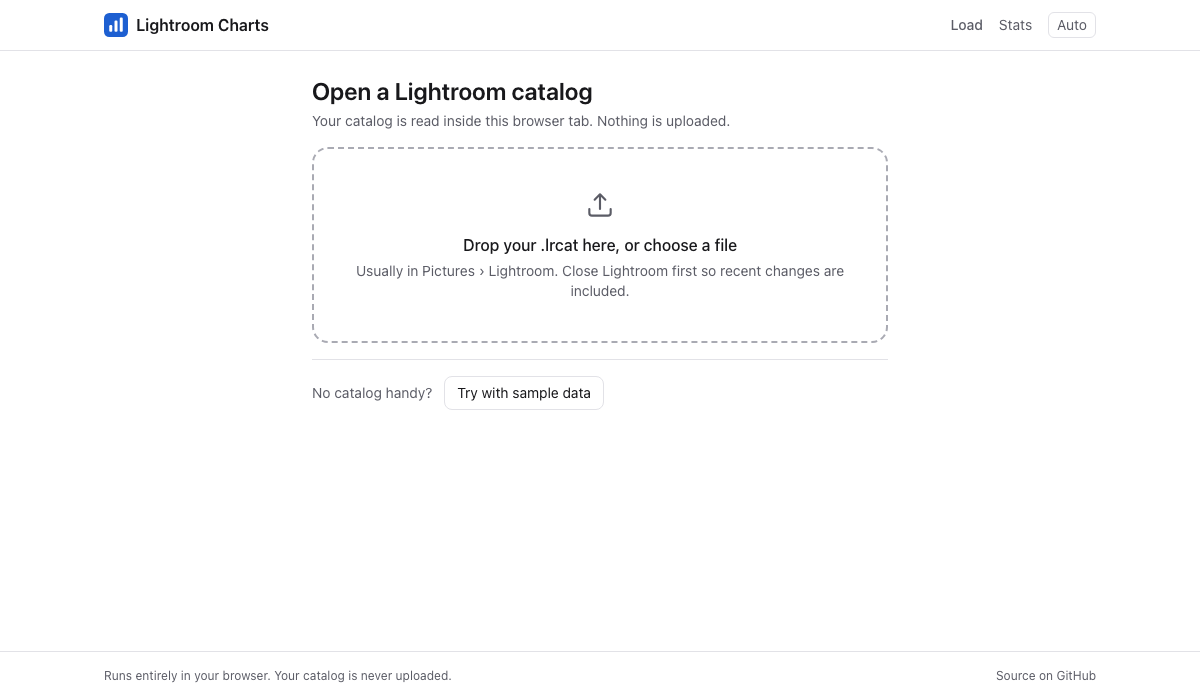
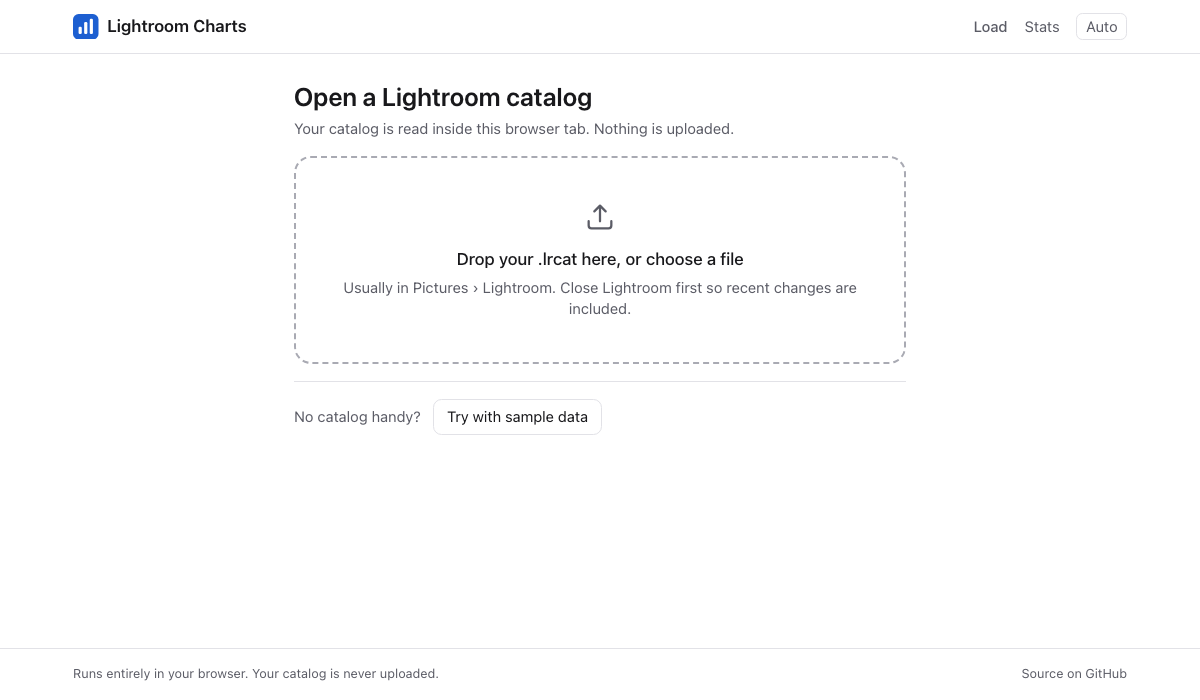
style: larger text across the app and in charts
- Root font size 17px (106.25%, so the browser's own font-size setting
  still applies). Everything sized in rem scales with it: body text
  14px -> 14.9px, notes 12px -> 12.75px.
- Chart text is drawn in px on a canvas, so the root size doesn't reach
  it: axis, value and tooltip text 12px -> 13px; the bins that show every
  label (ISO, aperture, weekday) 11px -> 12px so they still fit on phones.
- Checked at 375px (header still fits, no card title wraps, no label
  collisions) and 1280px. README screenshots regenerated.

diff --git a/src/charts/options.ts b/src/charts/options.ts
@@ -13,13 +13,14 @@ export function monthLabel(m: string): string {
 function base(c: ThemeColors) {
   return {
     animationDuration: 300,
-    textStyle: { color: c.muted, fontFamily: 'inherit' },
+    // Chart text is in px (the root font size doesn't reach the canvas).
+    textStyle: { color: c.muted, fontFamily: 'inherit', fontSize: 13 },
     tooltip: {
       trigger: 'axis',
       axisPointer: { type: 'shadow' },
       backgroundColor: c.surface,
       borderColor: c.line,
-      textStyle: { color: c.fg },
+      textStyle: { color: c.fg, fontSize: 13 },
     },
   };
 }
@@ -27,7 +28,7 @@ function base(c: ThemeColors) {
 const valueAxis = (c: ThemeColors) => ({
   type: 'value',
   minInterval: 1,
-  axisLabel: { color: c.muted },
+  axisLabel: { color: c.muted, fontSize: 13 },
   splitLine: { lineStyle: { color: c.line } },
 });
 
@@ -39,7 +40,7 @@ export function timelineOption(rows: MonthCount[], c: ThemeColors): EChartsCoreO
     xAxis: {
       type: 'category',
       data: rows.map((r) => monthLabel(r.month)),
-      axisLabel: { color: c.muted, hideOverlap: true },
+      axisLabel: { color: c.muted, hideOverlap: true, fontSize: 13 },
       axisLine: { lineStyle: { color: c.line } },
       axisTick: { show: false },
     },
@@ -76,7 +77,7 @@ export function rankingOption(
     yAxis: {
       type: 'category',
       data: top.map((r) => r.name),
-      axisLabel: { color: c.fg, width: labelWidth, overflow: 'truncate' },
+      axisLabel: { color: c.fg, width: labelWidth, overflow: 'truncate', fontSize: 13 },
       axisLine: { lineStyle: { color: c.line } },
       axisTick: { show: false },
     },
@@ -87,7 +88,7 @@ export function rankingOption(
         data: top.map((r) => r.count),
         itemStyle: { color: c.chart, borderRadius: [0, 4, 4, 0] },
         barMaxWidth: 18,
-        label: { show: true, position: 'right', color: c.muted },
+        label: { show: true, position: 'right', color: c.muted, fontSize: 13 },
       },
     ],
   };
@@ -108,8 +109,8 @@ export function columnOption(
       // Few bins: show every label (ECharts would skip alternate ones on phones).
       // Many bins (24 hours): let ECharts thin labels that would overlap.
       axisLabel: everyLabel
-        ? { color: c.muted, interval: 0, fontSize: 11 }
-        : { color: c.muted, hideOverlap: true, fontSize: 11 },
+        ? { color: c.muted, interval: 0, fontSize: 12 }
+        : { color: c.muted, hideOverlap: true, fontSize: 12 },
       axisLine: { lineStyle: { color: c.line } },
       axisTick: { show: false },
     },

diff --git a/src/styles.css b/src/styles.css
@@ -7,6 +7,9 @@
  * light; or when the user picked dark (see src/lib/theme.ts).
  */
 :root {
+  /* 17px base (was the browser default 16px): body text read too small.
+     A percentage keeps the user's own browser font-size setting in effect. */
+  font-size: 106.25%;
   color-scheme: light;
   --bg: #ffffff;
   --surface: #f5f5f7;
